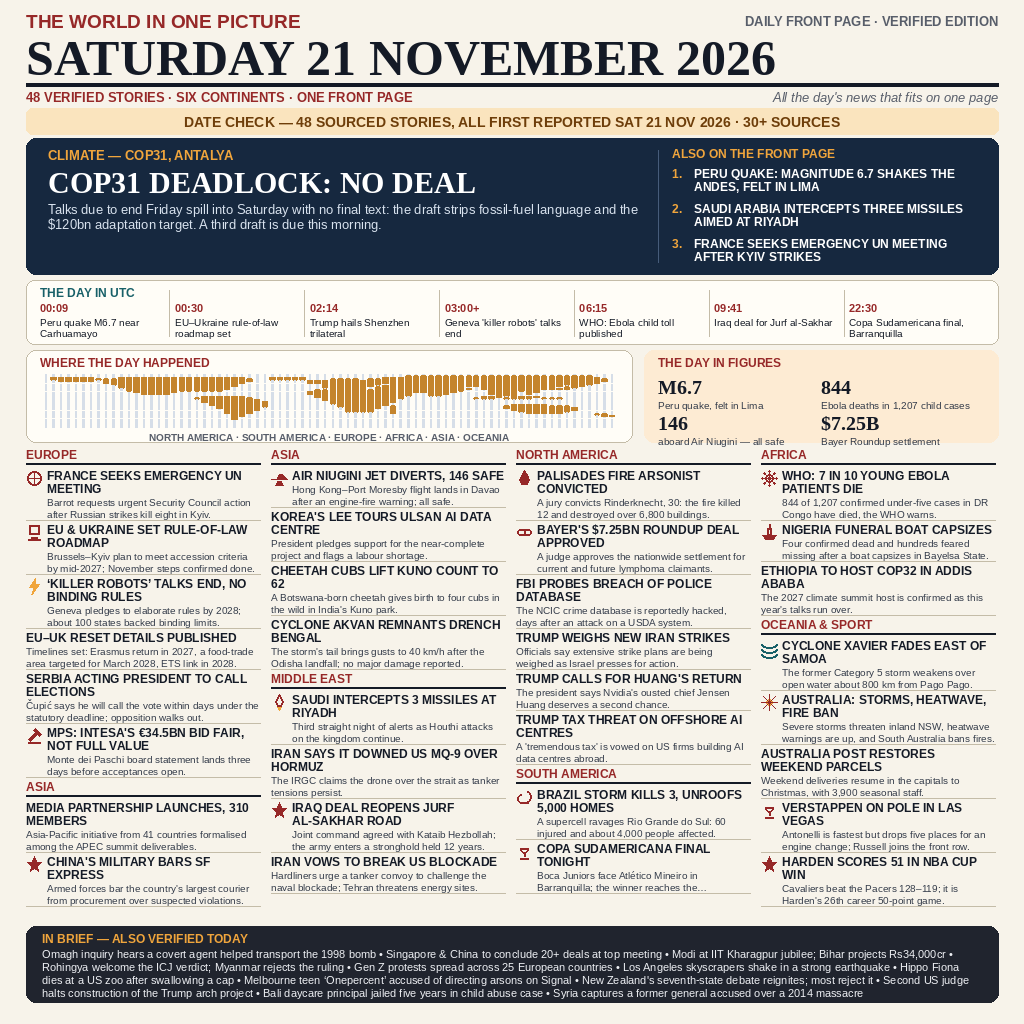
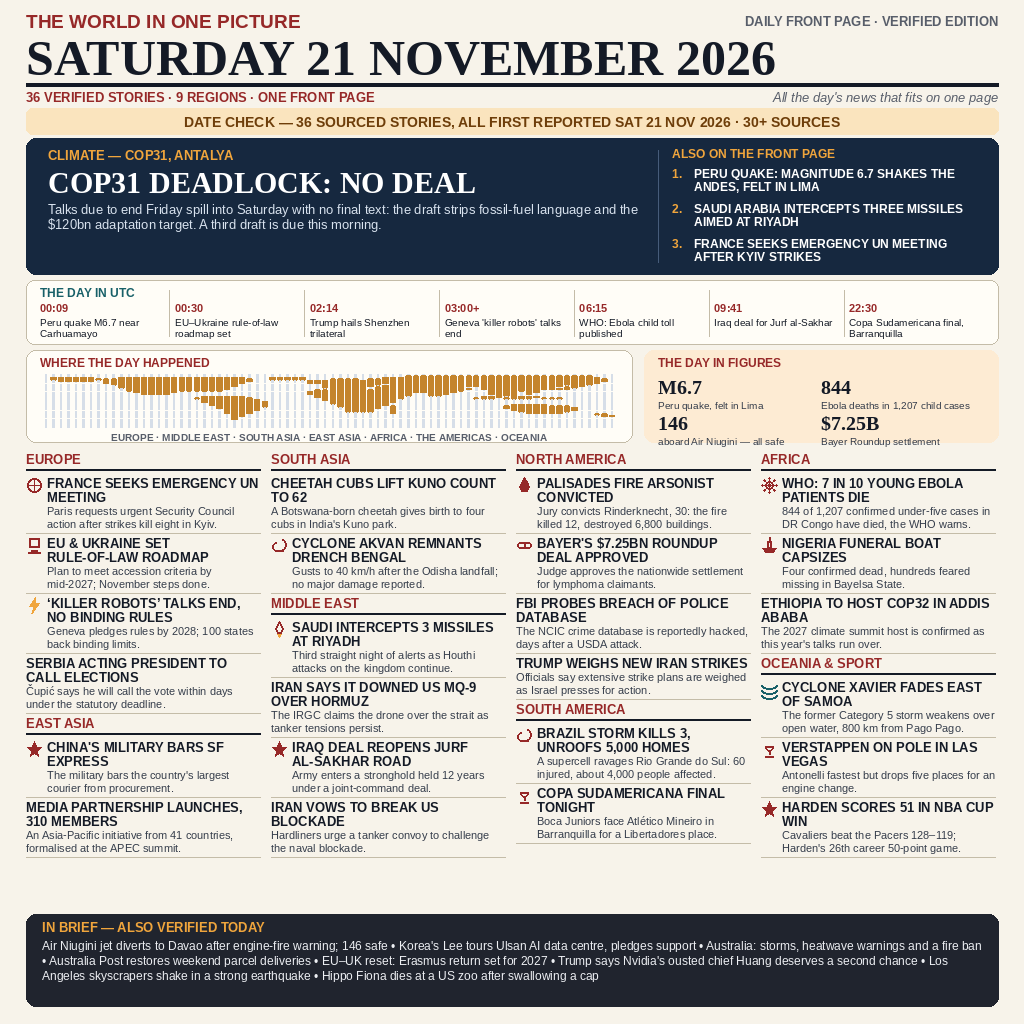
V4 re-cut: 36 stories, nine regions, larger airier type

Changed region(s): [[0.0, 0.4062, 0.9688, 1.0], [0.1875, 0.0625, 0.4062, 0.125]]

diff --git a/README.md b/README.md
@@ -1,14 +1,22 @@
 # The World in One Picture — Saturday 21 November 2026
 
 A one-image front page summing up the world news of **Saturday 21 November 2026**,
-entered in make.fun's News Image competition for that day. Built to the boards'
-winning formula: **48 verified stories, six continents, one page** — with
-sixteen per-story pictograms, a UTC timeline of the day, an explicit date-check band,
-a dot-matrix world map and a day-in-figures box.
+entered in make.fun's News Image competition for that day. **36 verified stories
+across nine regions, one page** — set in larger, airier type so every headline
+stays legible at thumbnail size, with thirteen per-story pictograms, a UTC
+timeline of the day, an explicit date-check band, a dot-matrix world map and
+a day-in-figures box.
 
 [![make.fun · news-image-20261121](https://make.fun/badge/news-image-20261121.svg)](https://make.fun/bounty/news-image-20261121?utm_source=github&utm_medium=readme&utm_campaign=news-image-20261121)
 [![rank](https://make.fun/badge/news-image-20261121/Shadowcell05/news-image-20261121/rank.svg)](https://make.fun/bounty/news-image-20261121/leaderboard?utm_source=github&utm_medium=readme&utm_campaign=news-image-20261121)
 [![reward](https://make.fun/badge/news-image-20261121/Shadowcell05/news-image-20261121/reward.svg)](https://make.fun/bounty/news-image-20261121?utm_source=github&utm_medium=readme&utm_campaign=news-image-20261121)
+
+## Revision note
+
+This is the poster's second cut for the same day. The first cut carried 48
+stories in denser type; this revision keeps the strongest 36, enlarges every
+headline and deck, and reorganises the grid from six continents into nine
+regions — the same verified reporting, re-set for legibility.
 
 ## What's in the picture
 
@@ -20,15 +28,16 @@ a dot-matrix world map and a day-in-figures box.
 - **The day in UTC:** from the 00:09 magnitude 6.7 Peru earthquake, through
   the WHO's Ebola child-toll release, to the Copa Sudamericana final in
   Barranquilla at 22:30.
-- **Front page grid, by continent:** Saudi Arabia intercepts three missiles
+- **Front page grid, by region:** Saudi Arabia intercepts three missiles
   aimed at Riyadh, France seeks an emergency UN meeting after the Kyiv
   strikes, the Palisades fire arsonist is convicted, Bayer's $7.25bn Roundup
-  settlement is approved, an Air Niugini jet diverts with 146 safe, Ethiopia
-  is confirmed as COP32 host — and more.
+  settlement is approved, Ethiopia is confirmed as COP32 host, cheetah cubs
+  lift the Kuno count to 62 — and more.
 - **The day in figures:** M6.7 in Peru, 844 Ebola deaths among 1,207 child
   cases, 146 aboard the diverted jet, a $7.25B settlement.
-- **In brief:** the Omagh inquiry's covert agent, Gen Z protests across 25
-  European countries, hippo Fiona, the Bali daycare verdict.
+- **In brief:** the Air Niugini diversion in full, Korea's Lee at the Ulsan
+  AI data centre, Australia's storm-and-heat day, the EU–UK reset timetable,
+  hippo Fiona.
 
 ## How it runs
 
